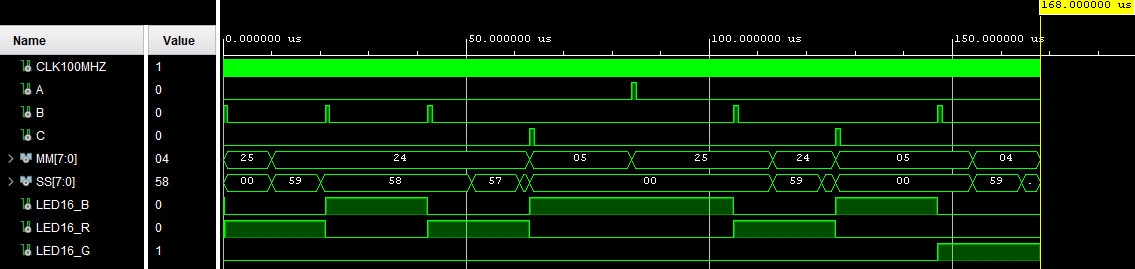
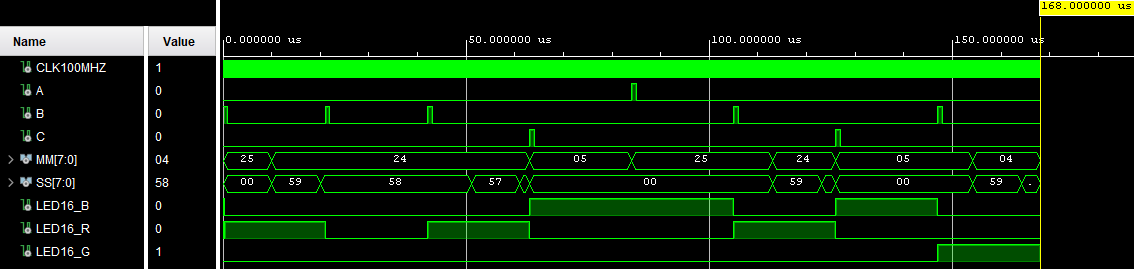
Changed pomodoro timer waveform & description

diff --git a/README.md b/README.md
@@ -57,7 +57,7 @@ Simulated waveforms of pomodoro module using [tb_pomodoro](...) testbench.
 
 ![Pomodorosim](images/tb_pomodoro.png "Pomodoro simulation")
 
-> Here we can see how the timer (and LED) reacts to reset (A), start/pause/resume (B) and skip inputs (C). Applying short pulse to B input starts the timer, as a result, timer is subtracting (descending values of MM and SS) and LED16_R is active. By applying the pulse again to B input we can see how the timer stops/resumes. Applying pulse to C skips to the idle phase before next interval (MM & SS value change to preview next interval & LED16_B is active). Applying pulse to A resets the whole timer to default state.
+> Here we can see how the timer (and LED) reacts to reset (A), start/pause/resume (B) and skip inputs (C). Applying short pulse to B input starts the timer, as a result, timer is subtracting (descending values of MM and SS) and LED16_R is active. By applying the pulse again to B input we can see how the timer stops (LED16 is off) or resumes. Applying pulse to C skips to the idle phase before next interval (MM & SS value change to preview next interval & LED16_B is active). Applying pulse to A resets the whole timer to default state.
 
 Simulated waveforms of BinTo7seg module using [tb_7seg](...) testbench.
 
